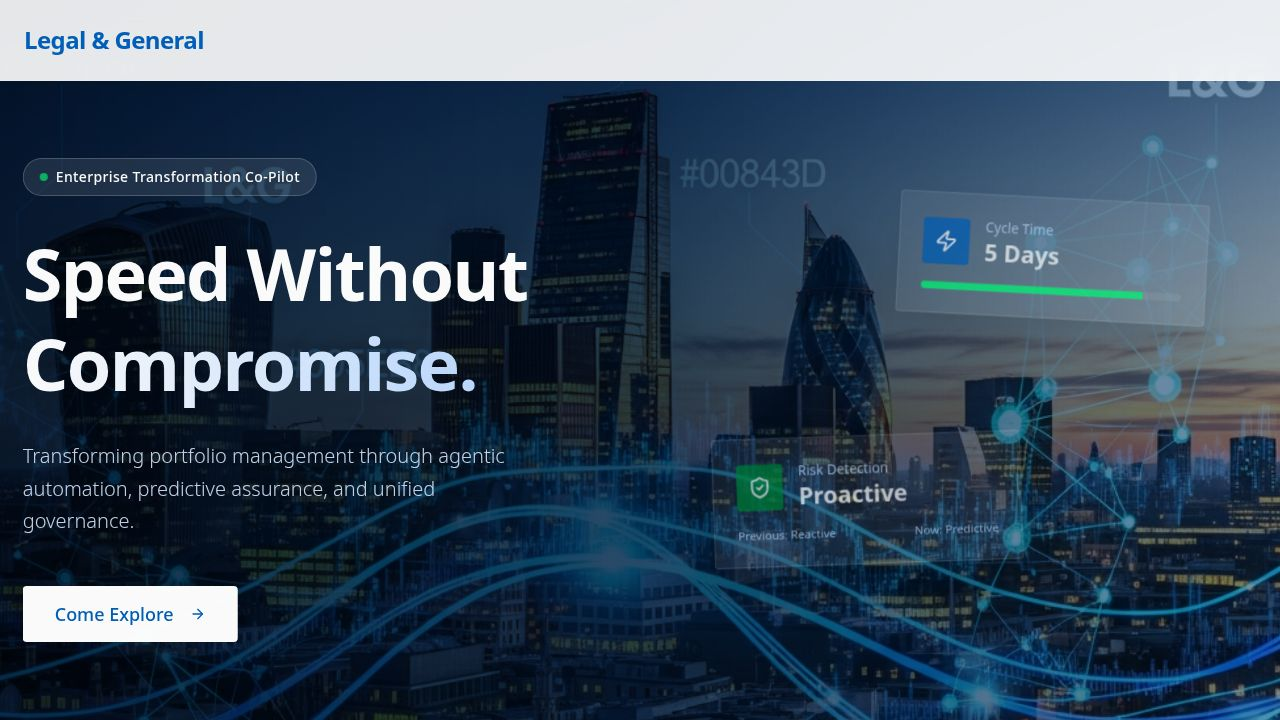
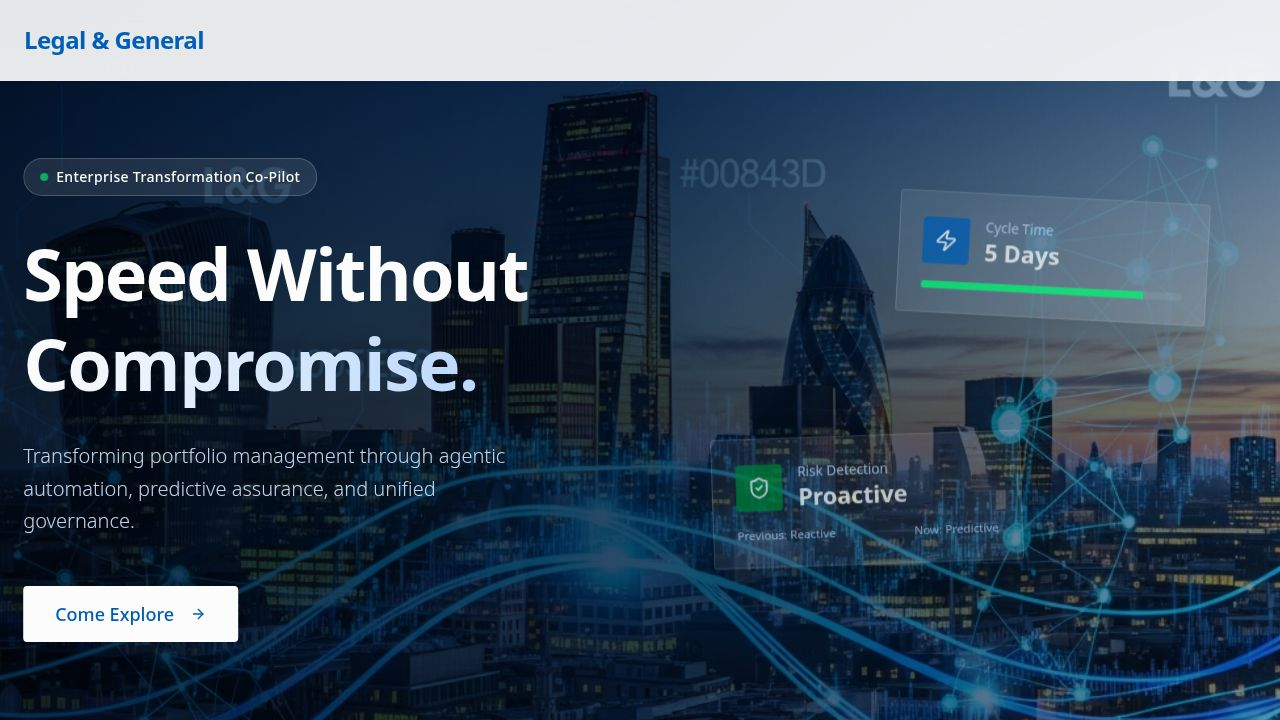
Slow down agent activity feed and prevent duplicate entries
Adjusted agent activity feed simulation interval to 12-20 seconds, implemented randomized activity selection, and updated deduplication logic in AgentActivityPanel and agentActionEngine.ts to use target entity names and a 60-second window.

Replit-Commit-Author: Agent
Replit-Commit-Session-Id: 16e54c30-06b1-48ac-ac0f-1a9b028f425e
Replit-Commit-Checkpoint-Type: full_checkpoint
Replit-Commit-Event-Id: 889b9ab9-2849-40bd-8dbf-21cea823dede
Replit-Commit-Screenshot-Url: https://storage.googleapis.com/screenshot-production-us-central1/c8eb5646-caff-48fb-ba52-c6fa8a2c2cc4/16e54c30-06b1-48ac-ac0f-1a9b028f425e/MyYsArT
Replit-Helium-Checkpoint-Created: true

diff --git a/client/src/components/AgentActivityPanel.tsx b/client/src/components/AgentActivityPanel.tsx
@@ -400,10 +400,20 @@ export function AgentActivityPanel({ compact = false, maxItems = 15, filterAgent
       setMessages(prev => [message, ...prev].slice(0, 50));
     });
 
-    // Continuous simulation - fire a new agent action every 3-6 seconds
-    let activityIndex = 0;
+    // Continuous simulation - fire a new agent action every 12-20 seconds (slowed down)
+    const usedIndices = new Set<number>();
     const simulationInterval = setInterval(() => {
-      const activity = simulatedActivities[activityIndex % simulatedActivities.length];
+      // Pick a random activity that hasn't been used recently
+      let randomIndex: number;
+      if (usedIndices.size >= simulatedActivities.length - 2) {
+        usedIndices.clear(); // Reset when most activities have been used
+      }
+      do {
+        randomIndex = Math.floor(Math.random() * simulatedActivities.length);
+      } while (usedIndices.has(randomIndex));
+      usedIndices.add(randomIndex);
+      
+      const activity = simulatedActivities[randomIndex];
       const uniqueId = `${activity.target}-${Date.now()}`;
       
       executeAction(
@@ -415,9 +425,7 @@ export function AgentActivityPanel({ compact = false, maxItems = 15, filterAgent
         activity.reason,
         75 + Math.floor(Math.random() * 20) // 75-95% confidence
       );
-      
-      activityIndex++;
-    }, 3000 + Math.random() * 3000); // Random 3-6 second interval
+    }, 12000 + Math.random() * 8000); // Random 12-20 second interval
 
     return () => {
       unsubActions();
@@ -426,10 +434,10 @@ export function AgentActivityPanel({ compact = false, maxItems = 15, filterAgent
     };
   }, []);
 
-  // Deduplicate actions by creating a unique key from agent + action + target + 5-second window
+  // Deduplicate actions by creating a unique key from agent + action + target name (ignoring timestamp-based IDs)
   const deduplicatedActions = actions.reduce((acc, action) => {
-    const timeWindow = Math.floor(action.timestamp.getTime() / 5000); // 5-second window
-    const key = `${action.agentId}-${action.actionType}-${action.targetEntityId}-${timeWindow}`;
+    // Use target entity NAME not ID to prevent showing same action with different timestamps
+    const key = `${action.agentId}-${action.actionType}-${action.targetEntityName}`;
     if (!acc.seen.has(key)) {
       acc.seen.add(key);
       acc.actions.push(action);

diff --git a/client/src/lib/agentActionEngine.ts b/client/src/lib/agentActionEngine.ts
@@ -104,7 +104,7 @@ let actionListeners: ((action: AgentAction) => void)[] = [];
 let messageListeners: ((message: AgentMessage) => void)[] = [];
 let recentActionKeys: Map<string, number> = new Map(); // Track recent actions to prevent duplicates
 
-const DEDUP_WINDOW_MS = 10000; // 10 second window to prevent duplicate actions
+const DEDUP_WINDOW_MS = 60000; // 60 second window to prevent duplicate actions
 
 function generateId(): string {
   return `${Date.now()}-${Math.random().toString(36).substr(2, 9)}`;